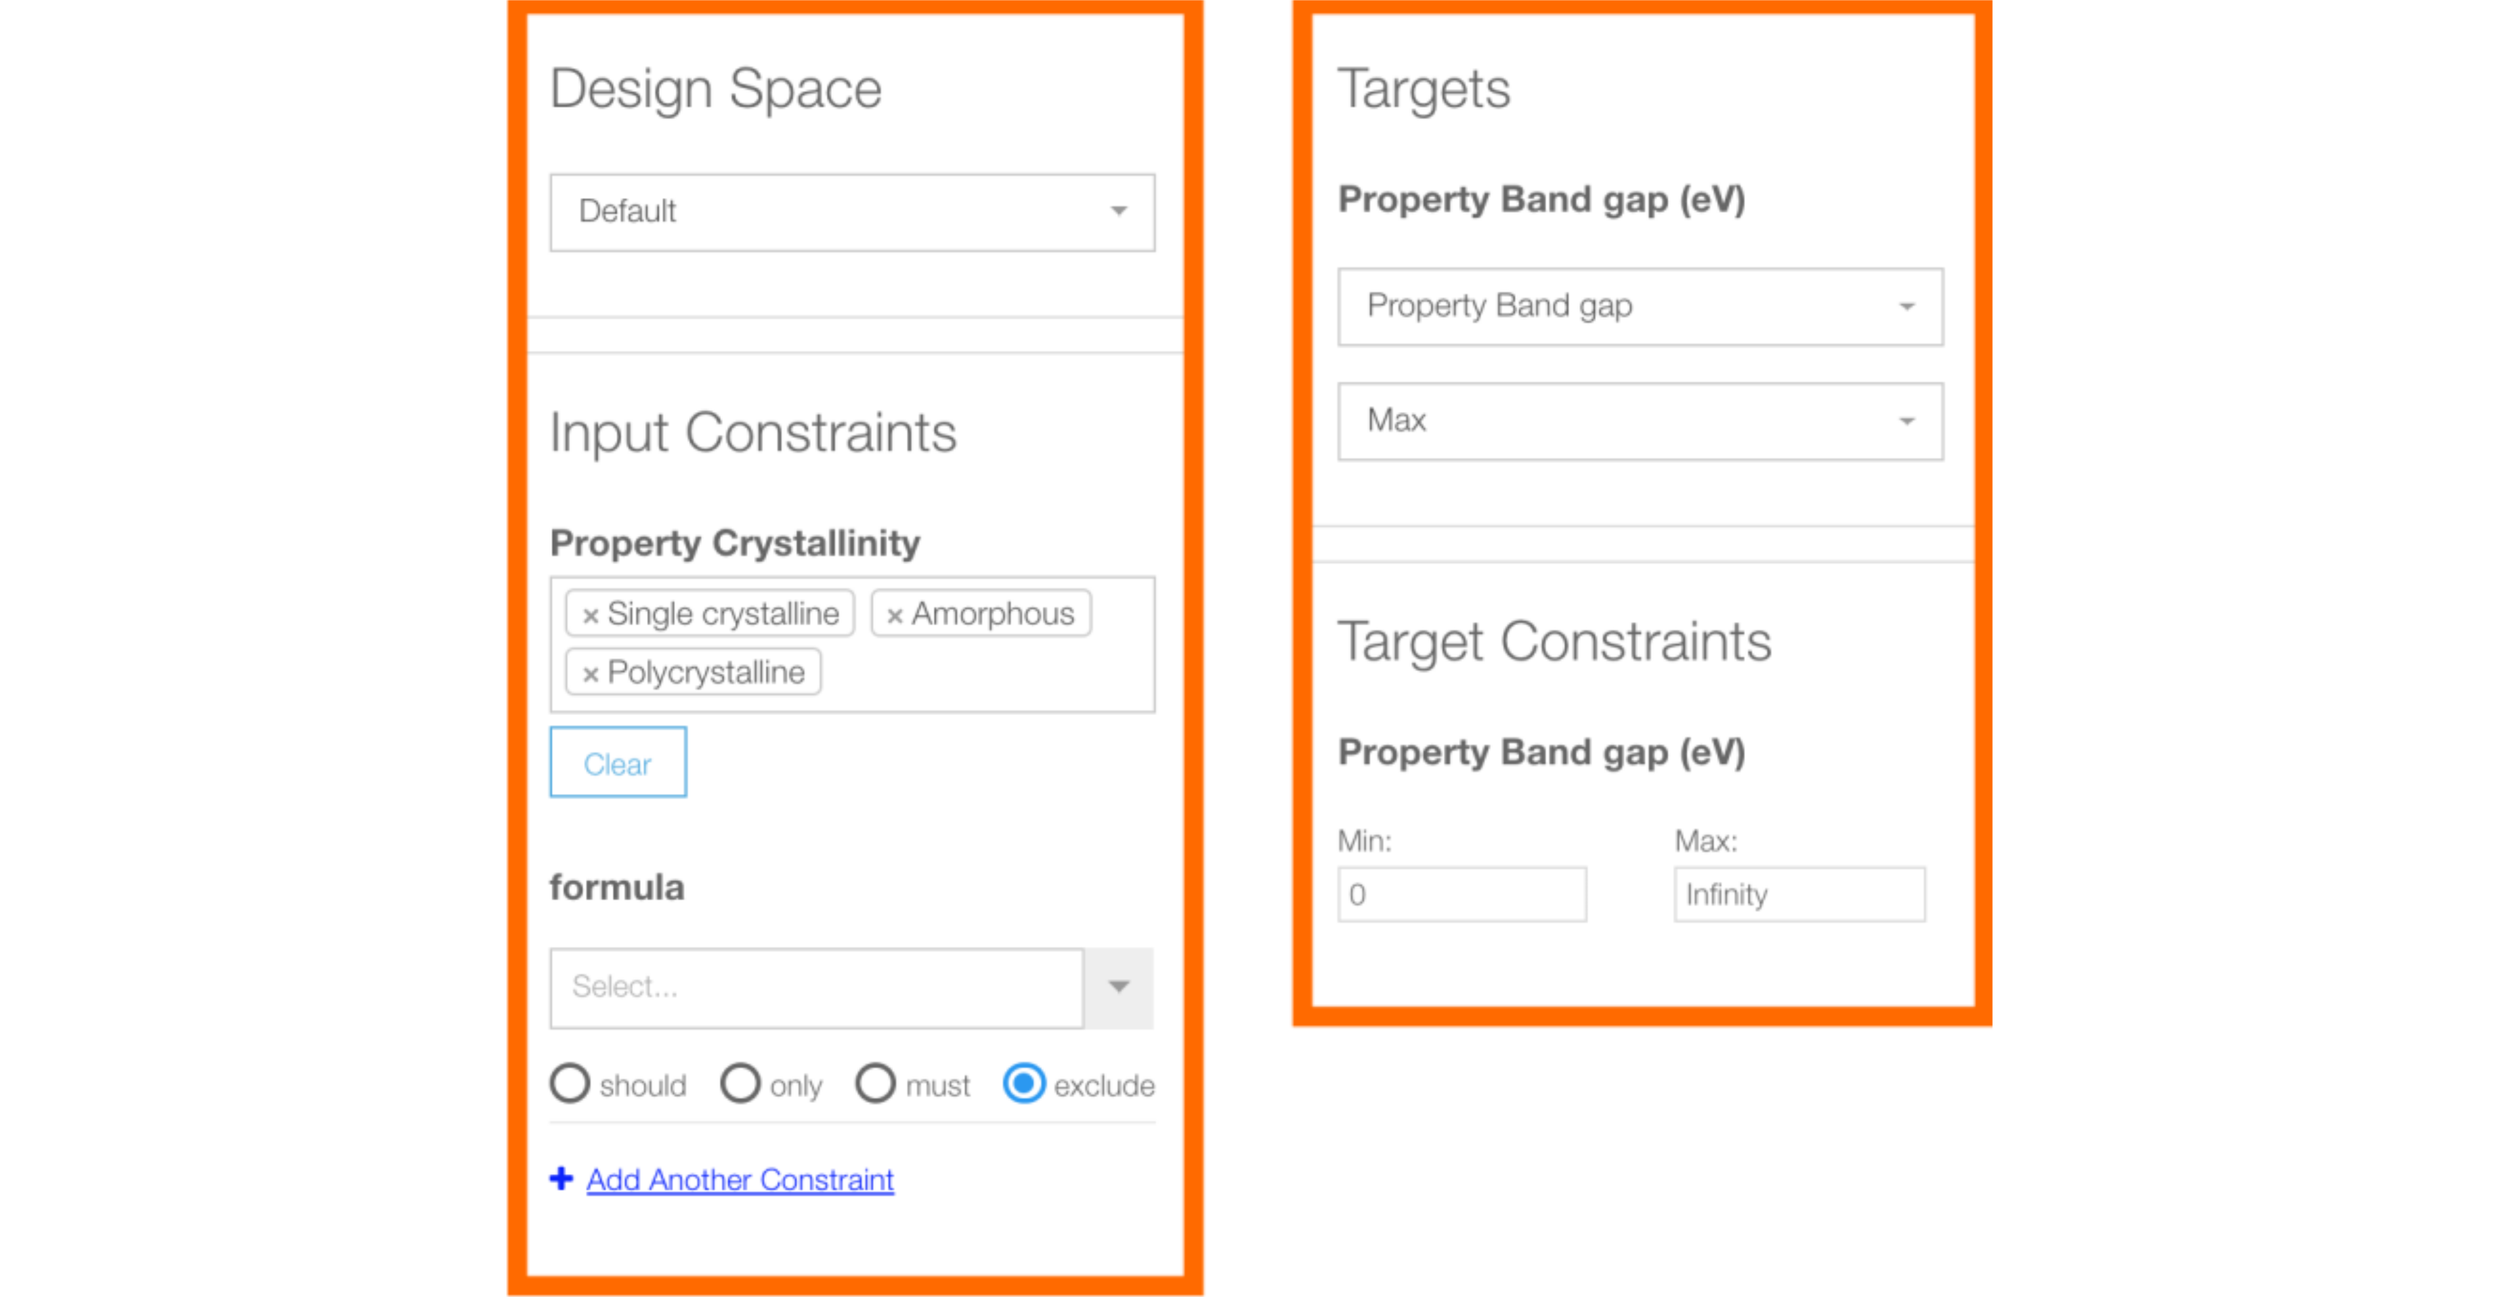
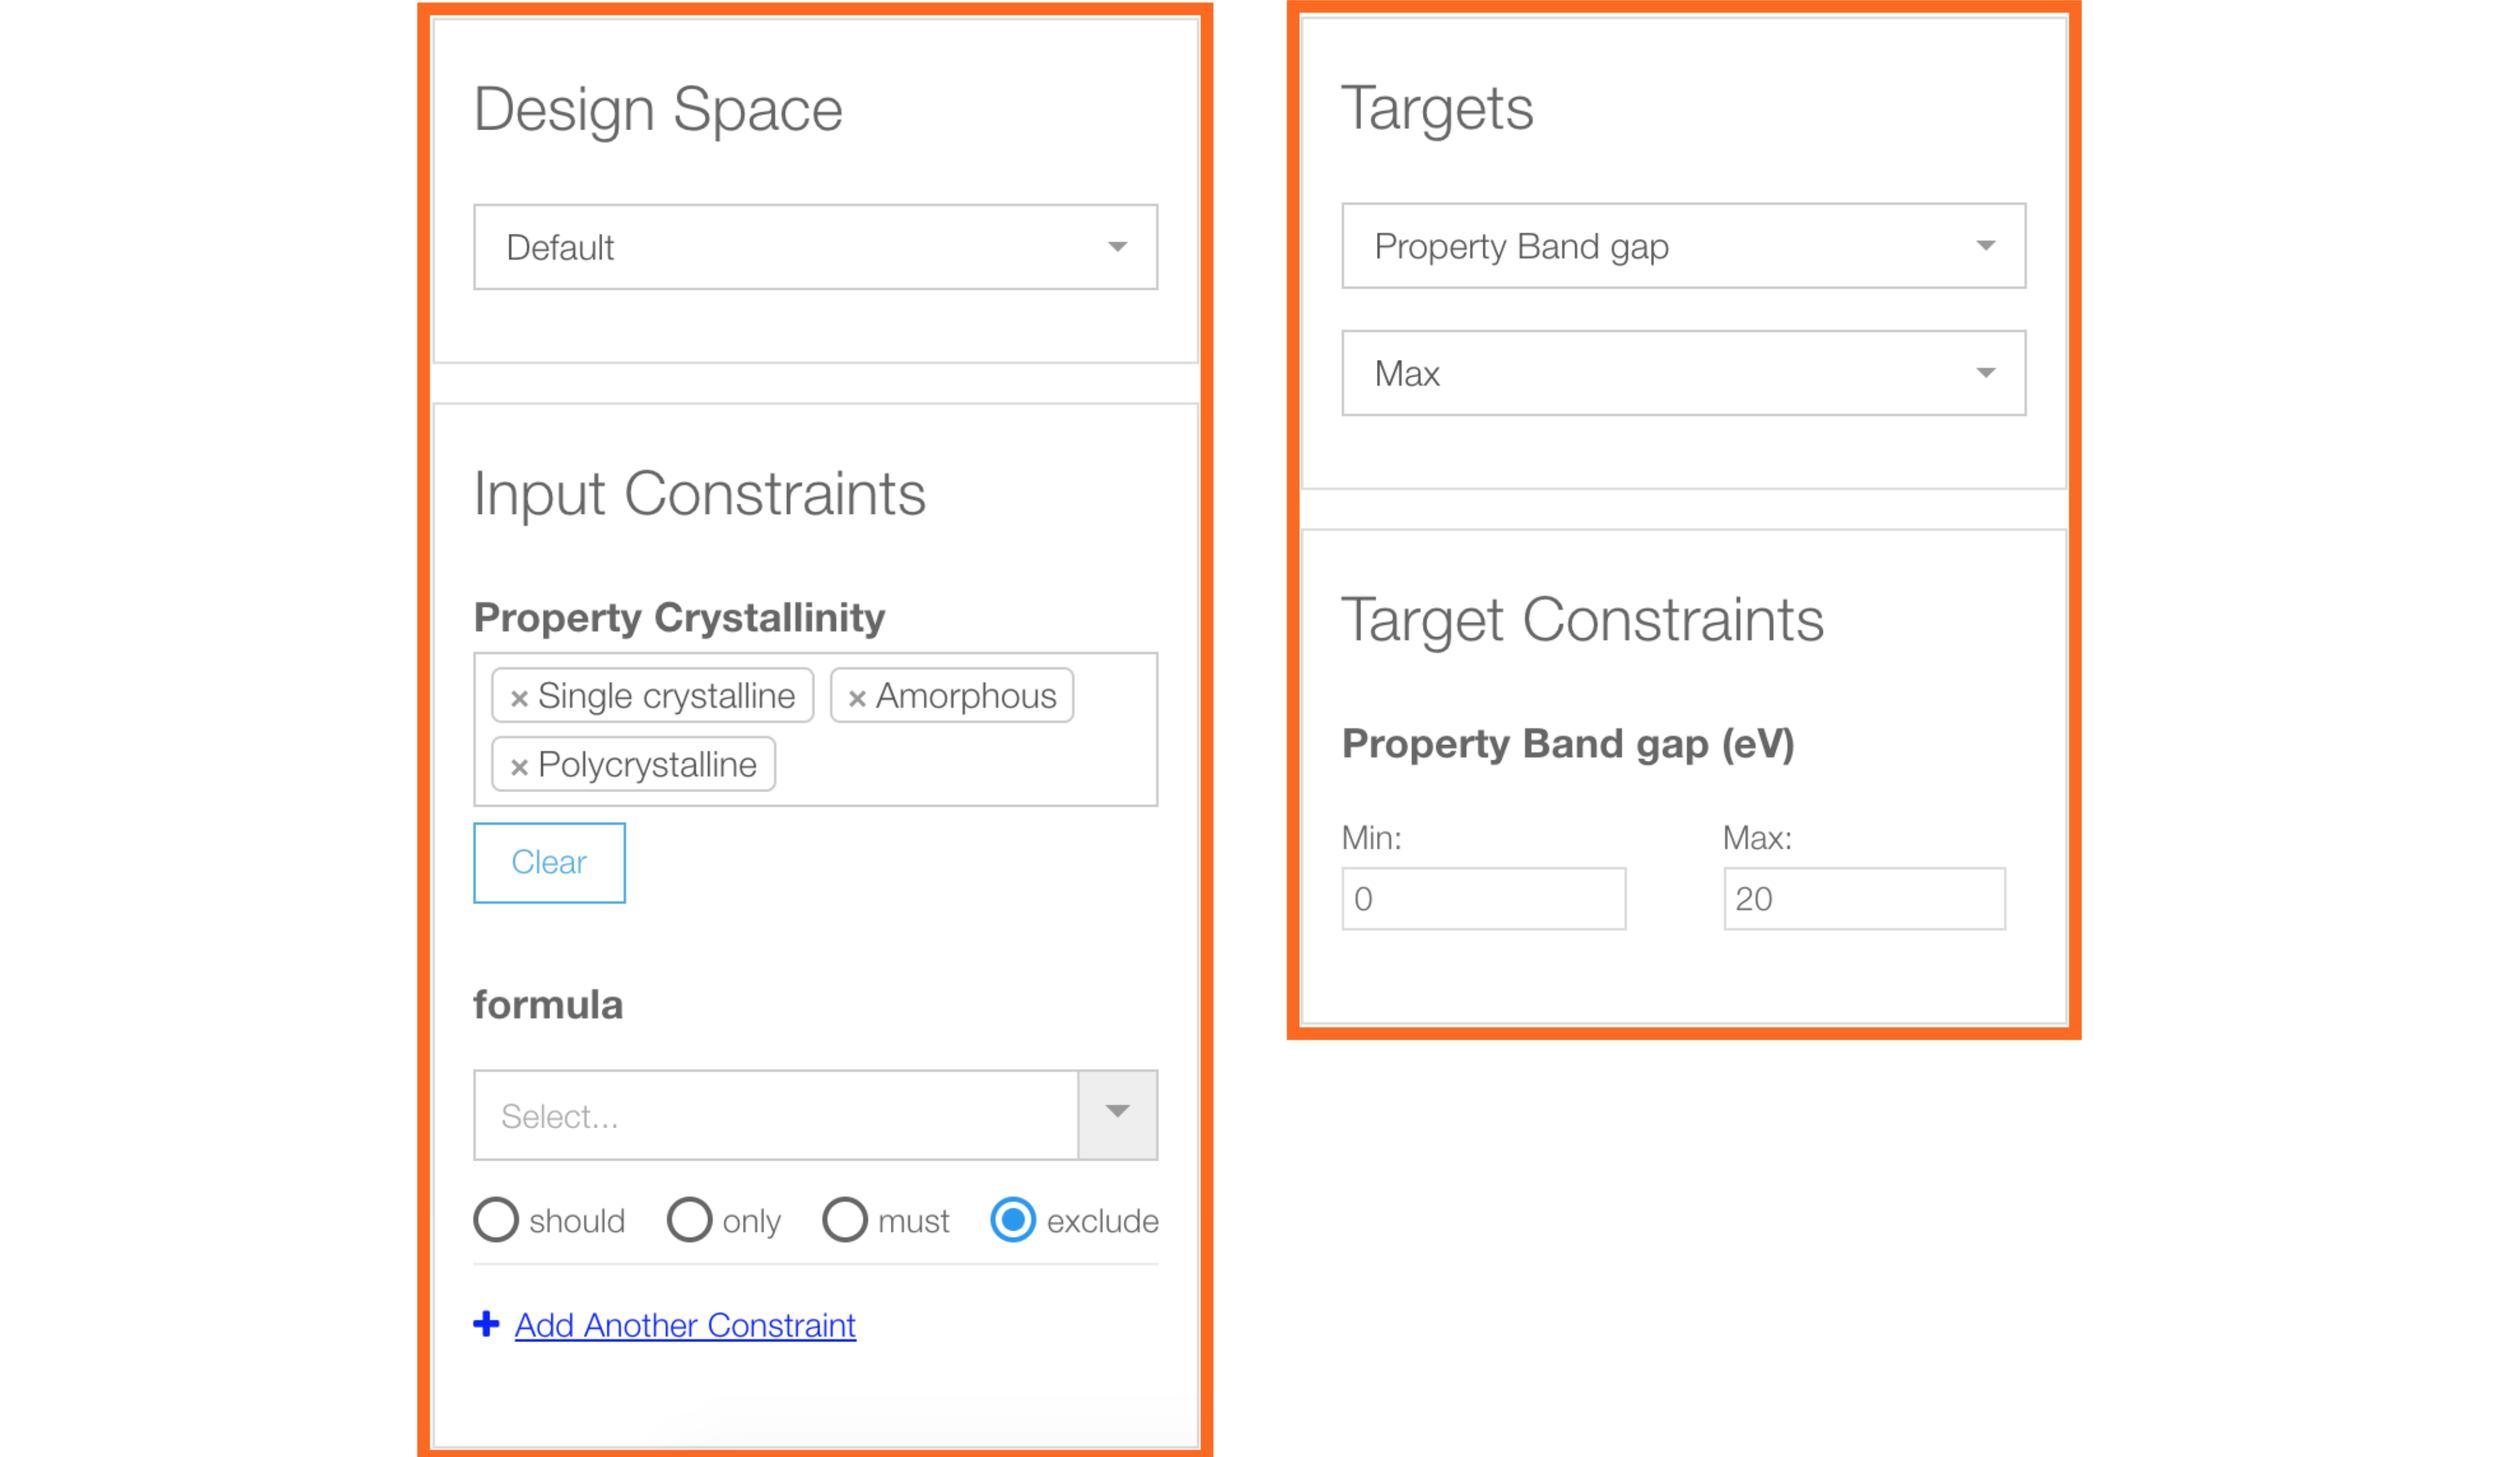
typos

Changed region(s): [[0.1554, 0.0, 0.839, 1.0]]

diff --git a/web_ui_examples/06_machine_learning.md b/web_ui_examples/06_machine_learning.md
@@ -26,7 +26,7 @@ You might recall in the [Data Views guide](03_data_views.md) that we deferred co
 ![ML config](fig/51_ml_config.png "ML config")
 
 ### The reason for columns
-Those who are new to ML might not understand why we need to configure "columns" instead of "rows," let alone columns at all. Traditionally, when data is arranged into a tabular format, the rows will represent individual material candidates and the columns will represent the properties of each candidate. This is standard ML paradigm. Since ML is trying to learn the relationship between input properties and output properties, we have to specify which columns should be used and what role each one serves.
+Those who are new to ML might not understand why we need to configure "columns" instead of "rows," let alone columns at all. This is because traditionally, when data is arranged into a tabular format, the rows will represent individual material candidates and the columns will represent the properties of each candidate. This is standard ML paradigm. Since ML is trying to learn the relationship between input properties and output properties, we have to specify which columns should be used and what role each one serves.
 
 ### Set column types
 
@@ -64,7 +64,7 @@ You will also notice that the input we selected was "Chemical Formula," but the 
 
 The second figure on the "Data Summary" page is a **t-SNE** plot, which is short for t-Distributed Stochastic Neighbor Embedding. As you saw above, materials tend to live in *high-dimensional space*, meaning that there are tens to hundreds of features used to represent a material, and it is impossible to visualize such high-dimensional space. Therefore, we employ t-SNE as a *dimensionality reduction* technique to project the data onto 2 dimensions for ease of visualization, as shown below.
 
-![t-SNE plot](fig_54_reports_tsne.png "t-SNE plot")
+![t-SNE plot](fig/54_reports_tsne.png "t-SNE plot")
 
 This technique was developed about [a decade ago](https://lvdmaaten.github.io/tsne/) ([simpler explanation](https://www.analyticsvidhya.com/blog/2017/01/t-sne-implementation-r-python/)) and it's a powerful projection tool because nearby points in high-dimensional space remain close in 2D while distant points remain far apart. The points in our plot are color-coded based on the property value (as indicated by the color bar), and you can hover over each data point to obtain more information such as the chemical formula. t-SNE plots are helpful for identifying clusters and structures in your data. Note that because the t-SNE plot is stochastic (i.e. random), it will change if you retrain your Data View.
 

diff --git a/web_ui_examples/07_predict_design.md b/web_ui_examples/07_predict_design.md
@@ -35,8 +35,8 @@ The second menu option in data views that now appears is **Design**, which enume
 At the top, the "Run" button is highlighted in blue—but before we press that, we have to set the design configurations.
 
 ### General settings
-* **Design Duration**: How long to run the search for new materials. Intuitively, a longer time results in a higher chance of finding the best materials. We'll just choose `1 minute` for demonstration.
-* **Number of Candidates**: The number of top candidate materials to keep in the final list. This doesn't affect the design time, only how many results you care to display. We'll keep this at `10`.
+* **Design Duration**: How long to run the search for new materials. Intuitively, a longer time results in a higher chance of finding the best materials as more resources are allocated. We'll just choose `1 minute` for demonstration.
+* **Number of Candidates**: The number of top candidate materials to keep in the final list. This shouldn't affect the design time, only how many results you care to display. We'll keep this at `10`.
 
 ### Input settings
 * **Design Space**: What types of materials to search over. `Default` generates new candidates based on the data view while `This view` restricts the search space to materials in the data view. We'll choose `Default`.
@@ -44,7 +44,7 @@ At the top, the "Run" button is highlighted in blue—but before we press that, 
 
 ### Output settings
 * **Targets**: Select which property you are designing materials for and for what goal (`Min`, `Max`, or a specific `Value`). We will use `Max` in this example.
-* **Target Constraints**: These constraints further limit the design space by setting restrictions on what values the *predicted* output can take. Candidates that are predicted to have values outside of this range will *not* appear. We'll keep this range from `0` to `Infinity`.
+* **Target Constraints**: These constraints further limit the design space by setting restrictions on what values the *predicted* output can take. Candidates that are predicted to have values outside of this range will *not* appear. We'll set this range from `0` to `20`.
 
 ![Design settings 2](fig/63_design_settings2.png "Design settings 2")
 

diff --git a/web_ui_examples/01_access_general.md b/web_ui_examples/01_access_general.md
@@ -12,11 +12,17 @@ After reading this guide, you should feel comfortable with:
 * Knowing where to look for help.
 
 ## Login landing page
-The first time you try to access the Citrination platform, you will arrive at the following landing page:    
+In order to access the Citrination Platform, you must accept our Privacy Policy. The following pop-up will appear each time we update our Privacy Policy:
+
+![Privacy policy](fig/07_privacy_policy.png "Privacy policy")
+
+Accepting the policy will take you to the following landing page:    
 
 ![Landing page](fig/01_landing_page.png "Landing page")   
 
 As a community research member, you should click the "OPEN" link. This brings you to the login page, where you can sign in with a Google account, or use your email address. Click "Sign up" on the bottom if you would like to make a new user account.
+
+If you are an industry customer, then you will have a separate deployment at https://your_site.citrination.com, which you should have received an invitation for. Please check your email or contact a Citrine team member for assistance.
 
 ## Main page
 After logging in, you will be directed to the main page, which defaults to the [Search](04_search.md) functionality. Below the search menu you will see all of the *public* [PIF records](http://citrineinformatics.github.io/pif-documentation/index.html) on Citrination, which at the time of this writing totals nearly 4.1 million records.   

diff --git a/web_ui_examples/README.md b/web_ui_examples/README.md
@@ -1,4 +1,8 @@
 # Web UI Examples
-This folder contains walk-through examples (with screenshots) of how to use the online [Citrination UI](https://citrination.com/). The numbering corresponds to a suggested order for someone accessing Citrination for their first time and each file addresses a separate functionality of the UI. To see an example workflow that combines many of these elements, check out the [demo on shape memory alloys](https://github.com/CitrineInformatics/learn-citrination/blob/master/JournalPaperToModel.ipynb).
+This folder contains walk-through examples (with screenshots) of how to use the online [Citrination UI](https://citrination.com/). The numbering corresponds to a suggested order for someone accessing Citrination for their first time.
+
+Each file also addresses a separate functionality of the UI, so you can just learn about the functionality you need. 
+
+To see an example workflow that combines many of these elements, check out the [demo on shape memory alloys](https://github.com/CitrineInformatics/learn-citrination/blob/master/JournalPaperToModel.ipynb).
 
 After you've explored the web UI, we encourage you to also check out the Citrination application program interface (API) which allows you to interact with your data and models through Python scripts (examples/tutorials [here](../api_examples/) and [here](https://github.com/CitrineInformatics/learn-citrination)).

diff --git a/web_ui_examples/02_data_management.md b/web_ui_examples/02_data_management.md
@@ -19,7 +19,7 @@ To get the most out of this guide, it is helpful to be familiar with:
   * [Example](https://github.com/CitrineInformatics/learn-citrination/blob/master/AdvancedPif.ipynb)
 
 ## Datasets page
-Datasets on Citrination are accessed under the "[Datasets](https://citrination.com/datasets)" menu option, which then opens the following page:   
+Datasets on Citrination are accessed under the **[Datasets](https://citrination.com/datasets)** menu option, which then opens the following page:   
 
 ![Datasets](fig/11_datasets_page.png "Datasets")   
 
@@ -36,7 +36,7 @@ Down below, you will see the list of datasets that fall under the category you'v
 ## Upload data
 If this is your first time on the Citrination platform, then "My Datasets" is likely empty for you. Let's change that by uploading some data! Click the "Upload Data" button found near the top of the page, which will take you to same page that opens if you had clicked "[Add Data](https://citrination.com/add_data)" in the black menu bar:   
 
-![Add data](fig/12_add_data.png "Add data") 
+![Add data](fig/12_add_data.png "Add data")
 
 Going through the items from top to bottom, the first choice to make is to decide if you're adding data to a new dataset (which must be created) or to an existing dataset.
 

diff --git a/web_ui_examples/03_data_views.md b/web_ui_examples/03_data_views.md
@@ -71,7 +71,7 @@ There are many different plot types that you can choose from, including line plo
 
 In this example, we will plot a histogram of band gap values in this dataset, so we select "Band gap" for the *x*-axis. This produces a plot (backed by [Plotly](https://plot.ly/)) that looks like the following:
 
-![View histogram](fig/27_view_plots2.png "View histogram)
+![View histogram](fig/27_view_plots2.png "View histogram")
 
 ## Conclusion
 This concludes our discussion of how to create Data Views on the Citrination platform. As mentioned earlier, you should now feel comfortable with:
